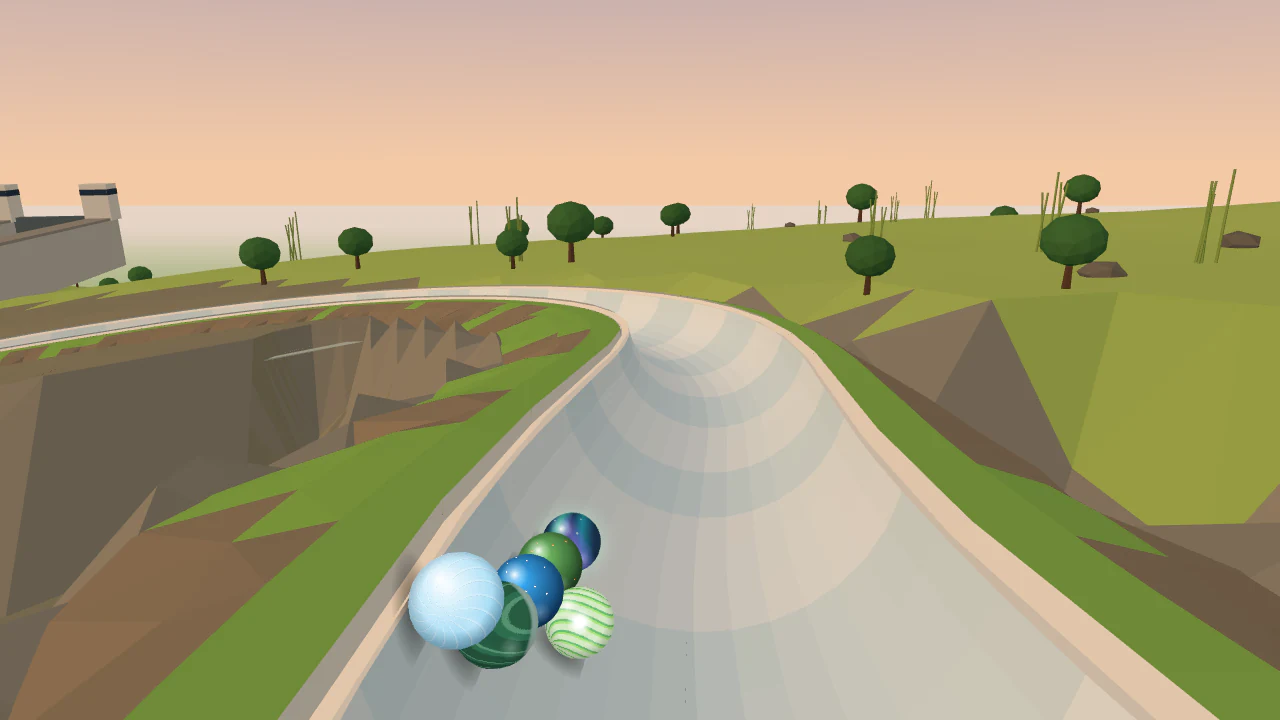
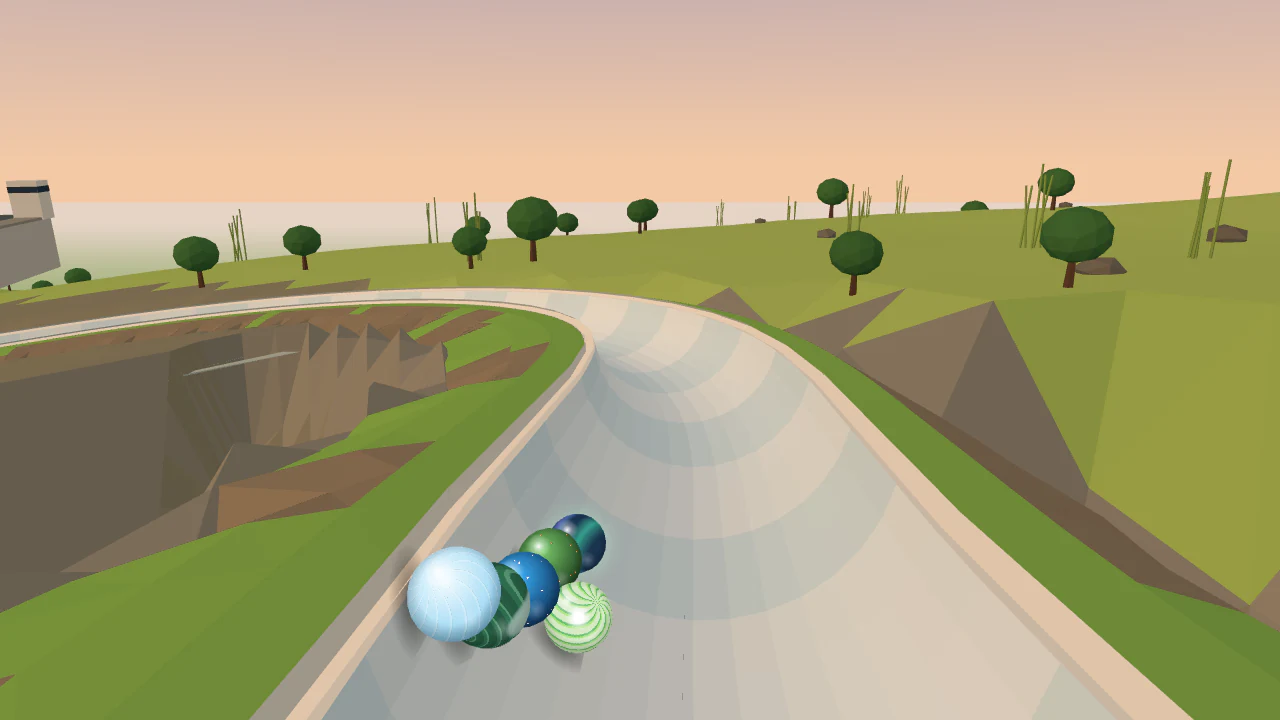
Rivers WIP: Yangtze pegs on the river sweep for overtakes
Claude-Session: https://claude.ai/code/session_011vSSkqNPL9kncfzrwF15wS

diff --git a/src/trackKit/layouts.js b/src/trackKit/layouts.js
@@ -1357,12 +1357,12 @@ const LAYOUTS = {
       obstacles: [parked({ costume: c.parked, at: 0.2, side: L, length: 6 }), peg({ costume: c.peg, at: 0.45, line: 'right' })], features: [rumble({ from: 0.7, to: 0.95, count: 3 })],
     },
   ],
-  /** L78 Lock staircase (Rivers): a straight down five lock steps, a short climb over the dam crest, a steep slalom drop under a long bridge (the lottery: the clean drop has none at the gate), a river sweep, S-bends, a spiral, the hairpin and a parked piece and a peg at the run-in. */
+  /** L78 Lock staircase (Rivers): a straight down five lock steps, a short climb over the dam crest, a steep slalom drop under a long bridge (the lottery: the clean drop has none at the gate), a river sweep (two pegs), S-bends, a spiral, the hairpin and a parked piece and a peg at the run-in. */
   'lock-staircase': (L, R, c) => [
-    { key: 'locks', name: 'Lock staircase', shape: straight(100, { grade: 0.15 }), features: [steps({ from: 0.3, to: 0.9, count: 5, drag: 0.01 })], billboards: 1 },
+    { key: 'locks', name: 'Lock staircase', shape: straight(90, { grade: 0.15 }), features: [steps({ from: 0.3, to: 0.9, count: 5, drag: 0.01 })], billboards: 1 },
     { key: 'damCrest', name: 'Over the dam crest', shape: climb(12, { grade: -0.05, after: 0.1 }) },
     { key: 'bridgeRun', name: 'Bridge slalom', shape: plunge(65, { grade: 0.3, from: 0.09 }), obstacles: [slalom({ costume: c.slalom, from: 0.15, to: 0.95, count: 6, loss: 0.25 })] },
-    { key: 'riverSweep', name: 'River sweep', shape: sweep({ side: R, radius: 85, degrees: 100, grade: 0.1 }), billboards: 2 },
+    { key: 'riverSweep', name: 'River sweep', shape: sweep({ side: R, radius: 85, degrees: 100, grade: 0.1 }), obstacles: [peg({ costume: c.peg, at: 0.4, line: 'left' }), peg({ costume: c.peg, at: 0.65, line: 'right' })], billboards: 2 },
     { key: 'sBends', name: 'S-bends', shape: sBends({ first: R, radius: 75, degrees: 60, grade: 0.12 }), billboards: 1 },
     { key: 'spin', name: 'Spiral', shape: spiral({ side: L, radius: 50, turns: 1, grade: 0.16 }) },
     { key: 'brakingStraight', name: 'Run to the hairpin', shape: straight(50, { grade: 0.12 }) },

diff --git a/src/tracks/README.md b/src/tracks/README.md
@@ -151,7 +151,7 @@ module.exports = track({
   | `market-maze` (rivers) | boats (a slalom among the market boats), bankBends (S-bends), pierRamp (a short climb), pierDrop, brakingStraight, hairpin, bankSweep, spin, underPier, pontoon (two pegs), lastStraight |
   | `steamer-pass` (rivers) | levee (two pegs), steamer (a tunnel through a paddle steamer; a boost), bayou, drop, brakingStraight, hairpin, town (S-bends), slalomDrop, landing, lastStraight |
   | `falls-edge` (rivers) | lipBend, lip (pegs), falls (a waterfall), gorge (a slalom), spin, brakingStraight, hairpin, upstream (S-bends), lastStraight |
-  | `lock-staircase` (rivers) | locks (five steps), damCrest (a short climb), bridgeRun (a steep slalom drop), riverSweep, sBends, spin, brakingStraight, hairpin, lastStraight |
+  | `lock-staircase` (rivers) | locks (five steps), damCrest (a short climb), bridgeRun (a steep slalom drop), riverSweep (two pegs), sBends, spin, brakingStraight, hairpin, lastStraight |
 
   A track may still write its own sections by hand; the sameness check makes sure they differ.
 - **`family`**: `'world-tour'` (the default), `'grand-prix'` (any `grandPrix` track),
